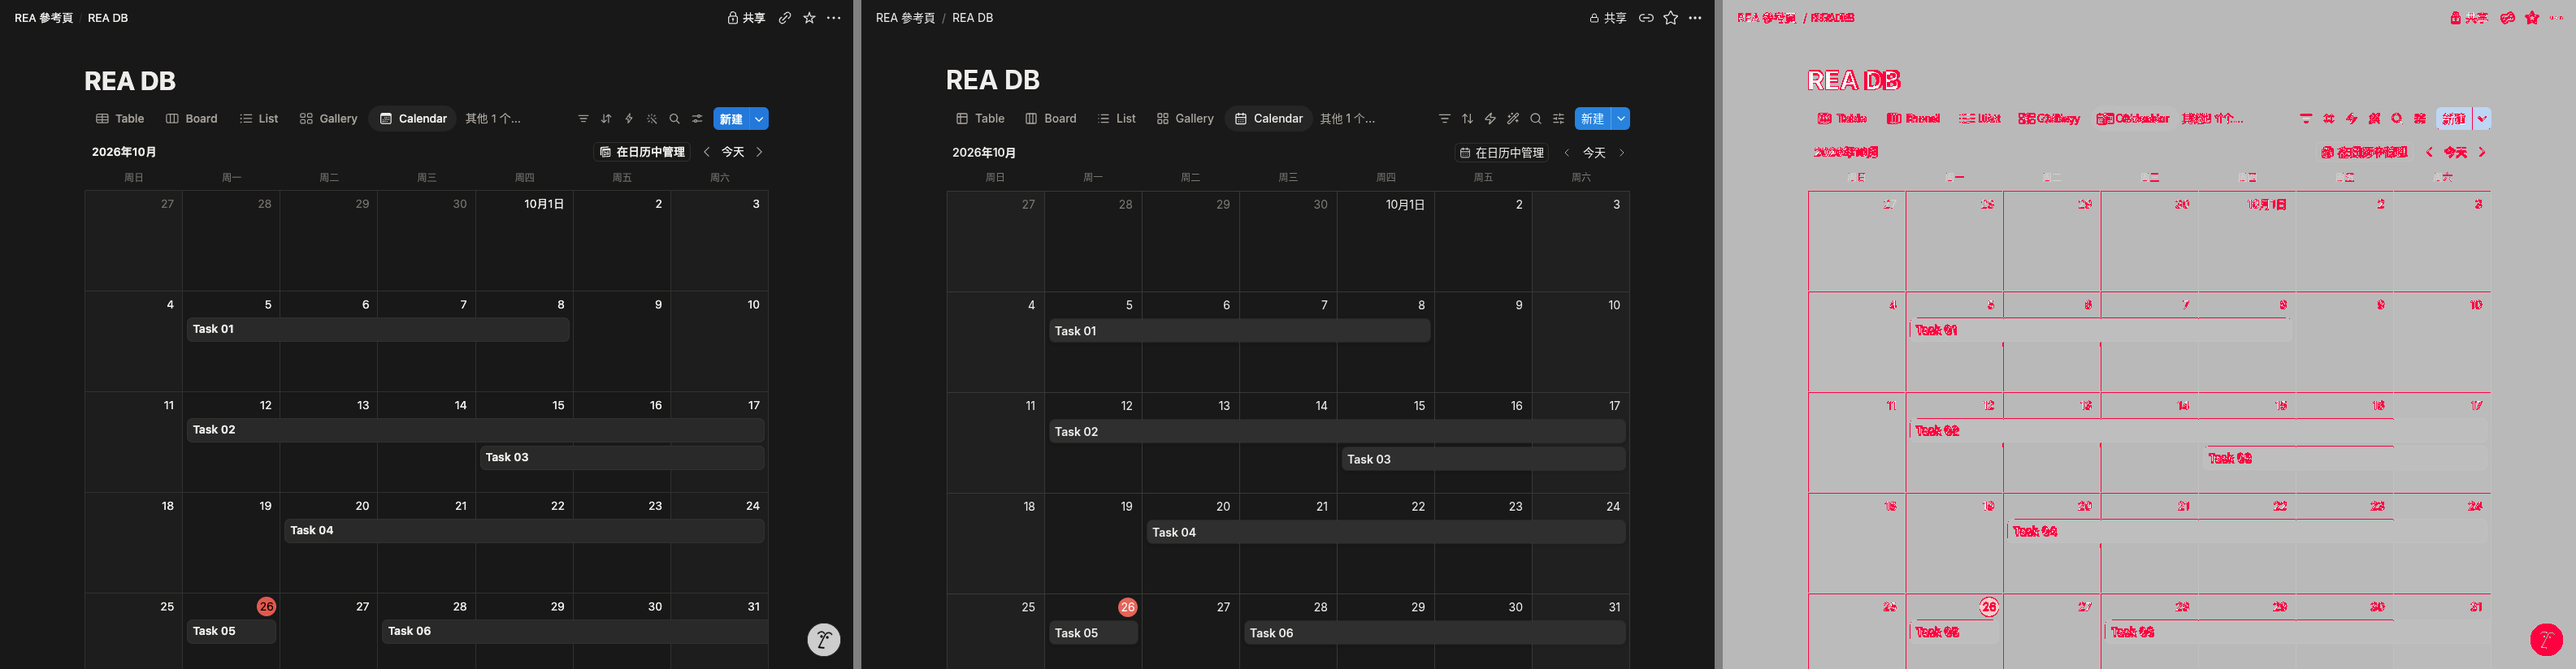
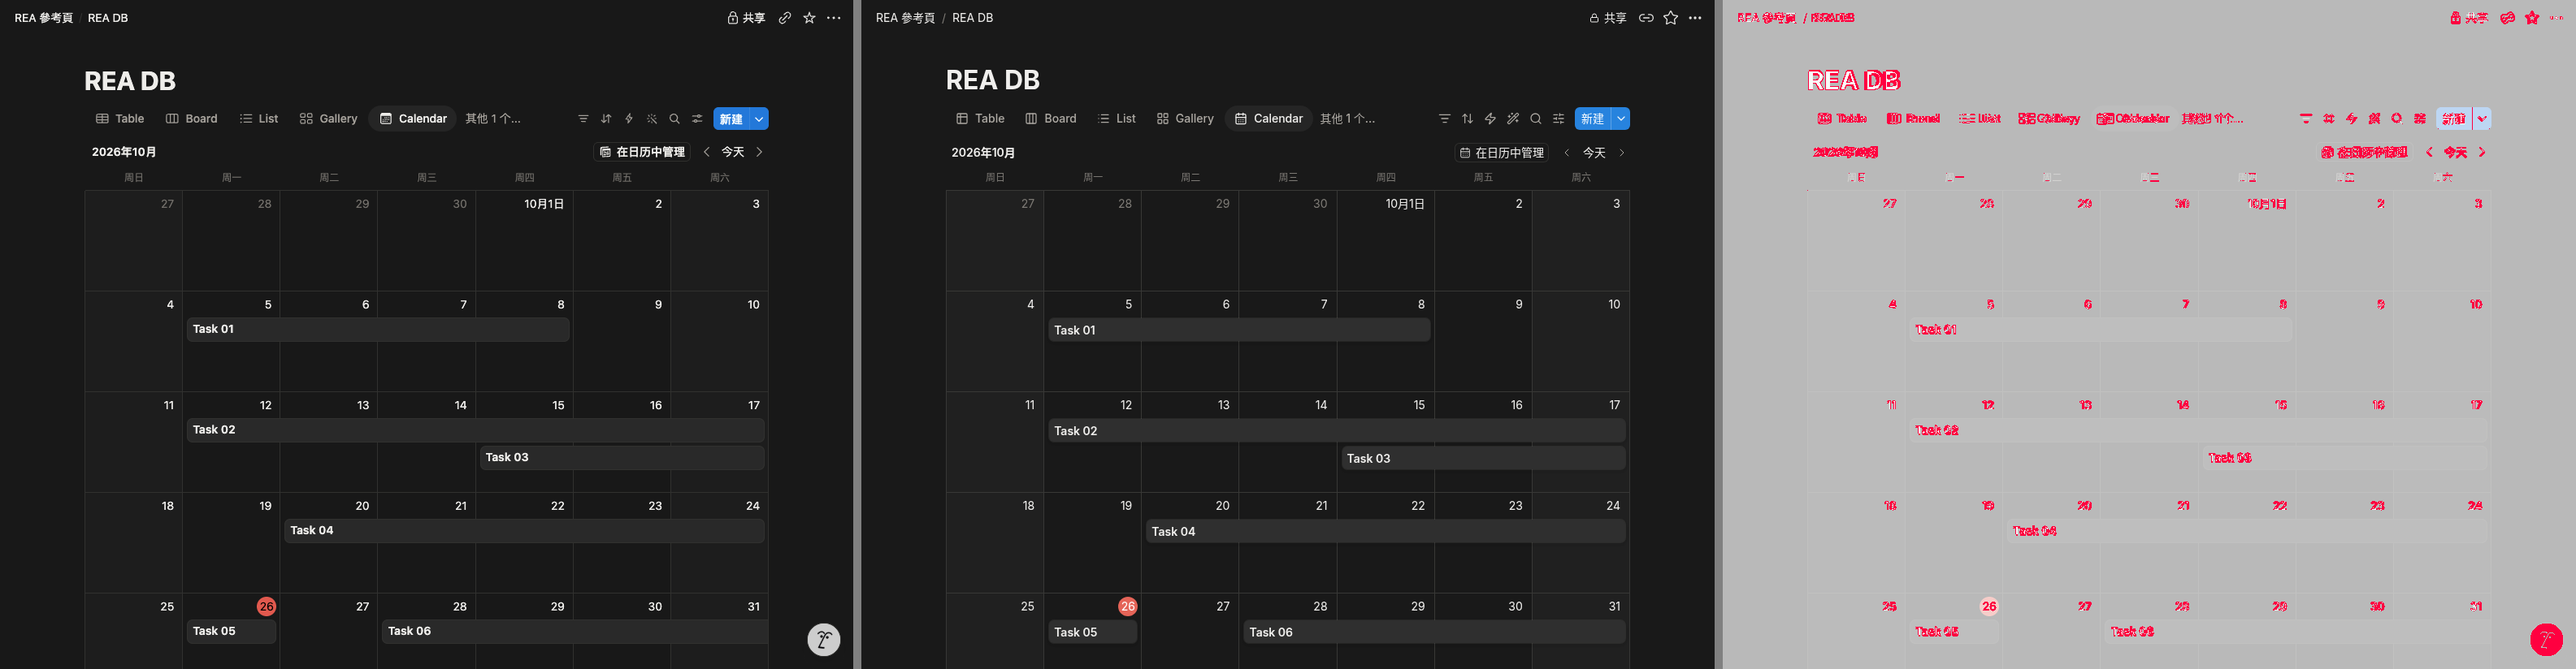
Timeline: header labels on day starts, today line at current time, right cluster masks labels; calendar 1.76%

diff --git a/packages/app/src/db/TimeViews.tsx b/packages/app/src/db/TimeViews.tsx
@@ -8,6 +8,8 @@ import { defaultsFor, type DbCtx } from './Database';
 const WEEKDAYS = ['周日', '周一', '周二', '周三', '周四', '周五', '周六'];
 const CN_MONTH = ['一月', '二月', '三月', '四月', '五月', '六月', '七月', '八月', '九月', '十月', '十一月', '十二月'];
 const DAY = 86400000;
+/** the today line sits at the current time of day */
+const nowFrac = () => { const n = new Date(); return (n.getHours() * 60 + n.getMinutes()) / 1440; };
 const addDays = (d: Date, n: number) => { const x = new Date(d); x.setDate(x.getDate() + n); return x; };
 const diffDays = (a: Date, b: Date) => Math.round((Date.UTC(a.getFullYear(), a.getMonth(), a.getDate()) - Date.UTC(b.getFullYear(), b.getMonth(), b.getDate())) / DAY);
 function dateProp(ctx: DbCtx) { const s = schemaOf(ctx.db); return ctx.view.dateProp && s[ctx.view.dateProp] ? ctx.view.dateProp : Object.keys(s).find((k) => s[k].type === 'date'); }
@@ -101,12 +103,12 @@ export function TimelineView({ ctx }: { ctx: DbCtx }) {
       <div className="ink-tl-scroll" ref={scroller} onScroll={(e) => setSl(e.currentTarget.scrollLeft)}>
         <div className="ink-tl-canvas" style={{ width: days * DAY_W, height: 66 + rows.length * 36 + 66 }}>
           <div className="ink-tl-head">
-            {months.map((m) => { const fm = firstMonday(m); return <span key={isoOf(m)} className="ink-tl-mlabel" style={{ left: x(fm) }}>{CN_MONTH[m.getMonth()]}</span>; })}
-            {ticks.map((d) => <span key={isoOf(d)} className="ink-tl-tick" style={{ left: x(d) + DAY_W / 2 }}>{d.getDate()}</span>)}
-            <span className="ink-tl-todaybadge" style={{ left: x(today) + DAY_W / 2 }}>{today.getDate()}</span>
+            {months.map((m) => { const fm = firstMonday(m); return <span key={isoOf(m)} className="ink-tl-mlabel" style={{ left: x(fm) - DAY_W / 2 }}>{CN_MONTH[m.getMonth()]}</span>; })}
+            {ticks.map((d) => <span key={isoOf(d)} className="ink-tl-tick" style={{ left: x(d) }}>{d.getDate()}</span>)}
+            <span className="ink-tl-todaybadge" style={{ left: x(today) }}>{today.getDate()}</span>
           </div>
           {months.map((m) => <span key={'l' + isoOf(m)} className="ink-tl-mline" style={{ left: x(m) }} />)}
-          <span className="ink-tl-todayline" style={{ left: x(today) + DAY_W / 2 }} />
+          <span className="ink-tl-todayline" style={{ left: x(today) + DAY_W * nowFrac() }} />
           {prop && rows.map((r, i) => {
             const s = span(r, prop, db); if (!s) return null;
             return (
@@ -122,11 +124,13 @@ export function TimelineView({ ctx }: { ctx: DbCtx }) {
         <button className="ink-tl-expand" aria-label="显示表格"><Icon name="chevronsRight" size={16} /></button>
         <span className="ink-tl-cur">{leftDate.getFullYear()}年{leftDate.getMonth() + 1}月</span>
         <span style={{ flex: 1 }} />
+        <span className="ink-tl-right">
         <button className="ink-cal-manage"><Icon name="calendar" size={14} />在日历中管理</button>
         <button className="ink-tl-scale">季度<Icon name="chevronDown" size={14} /></button>
         <button className="ink-cal-nav" aria-label="向前" onClick={() => scroller.current?.scrollBy({ left: -7 * DAY_W * 4, behavior: 'smooth' })}><Icon name="chevronLeft" size={16} /></button>
         <button className="ink-cal-today" onClick={scrollToday}>今天</button>
         <button className="ink-cal-nav" aria-label="向后" onClick={() => scroller.current?.scrollBy({ left: 7 * DAY_W * 4, behavior: 'smooth' })}><Icon name="chevronRight" size={16} /></button>
+        </span>
       </div>
     </div>
   );

diff --git a/packages/app/src/styles/db.css b/packages/app/src/styles/db.css
@@ -374,3 +374,4 @@ body.is-col-resizing { cursor: col-resize !important; user-select: none; }
 .ink-cal-wd { margin-left: 1px; }
 .ink-cal-grid { margin-top: 0; }
 .ink-cal-day.is-today { right: 4px; }
+.ink-tl-right { display: flex; align-items: center; gap: 4px; height: 100%; padding: 0 104px 0 8px; margin-right: -104px; background: var(--ink-timeline-background, var(--ink-background-primary)); pointer-events: auto; }
